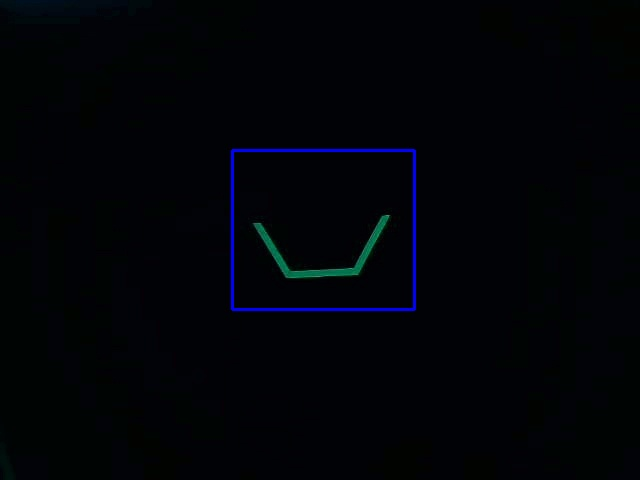
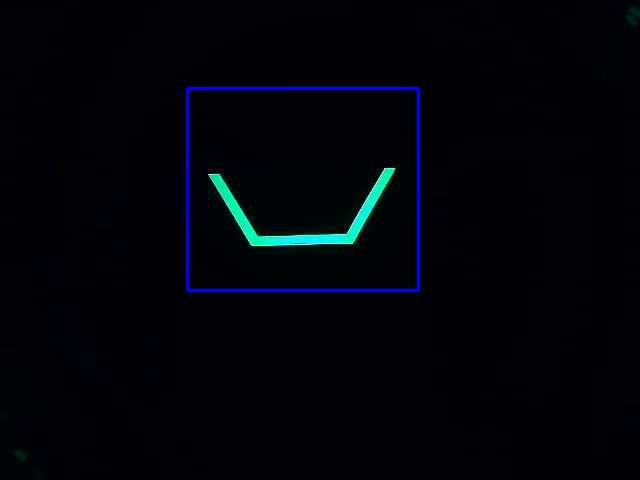
Fix

Changed region(s): [[0.2812, 0.1562, 0.6562, 0.6562], [0.9688, 0.0, 1.0, 0.0625]]

diff --git a/vision.py b/vision.py
@@ -9,8 +9,8 @@ import socket
 NetworkTables.initialize(server="roborio-7672-frc.local")
 table = NetworkTables.getTable("Vision")
 
-camera = cv2.VideoCapture(0)
-# camera.set(cv2.CAP_PROP_AUTO_EXPOSURE, 1)
+camera = cv2.VideoCapture(1)
+# camera.set(cv2.CAP_PROP_AUTO_EXPOSURE, 0.75)
 camera.set(15, -9)
 
 x = 0
@@ -44,9 +44,9 @@ def white_balance(frame):
     return result
 
 
-KNOWN_WIDTH = 39
-KNOWN_PIXEL_WIDTH = 172
-KNOWN_DISTANCE = 171
+KNOWN_WIDTH = 43
+KNOWN_PIXEL_WIDTH = 231
+KNOWN_DISTANCE = 124
 
 
 def get_dimensions_x():
@@ -82,8 +82,8 @@ def get_dimensions_y():
 
 def calculate_rotation():
     if x:
-        x_c = x - y / 2
-        location = x - (get_dimensions_x() / 2)
+        x_c = x + (x / 2)
+        location = x_c - (get_dimensions_x() / 2)
         rotate = location * -1
         return rotate
 

diff --git a/shoot-a-photo.py b/shoot-a-photo.py
@@ -1,4 +1,5 @@
 import cv2
+
 cap = cv2.VideoCapture(1)
 cap.set(15, -9)
 ret, frame = cap.read()
